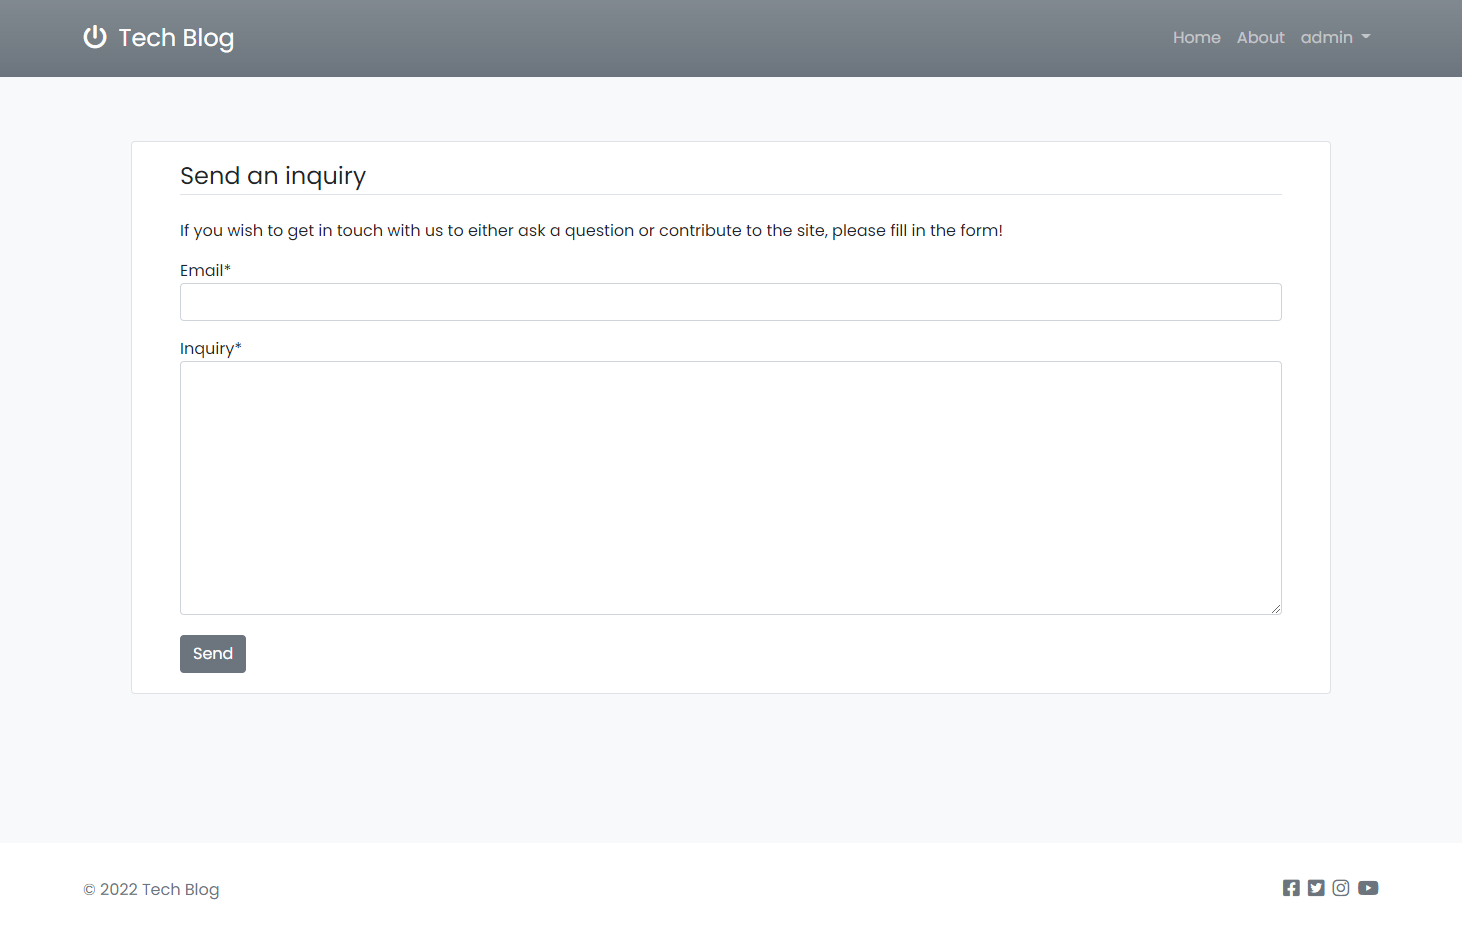
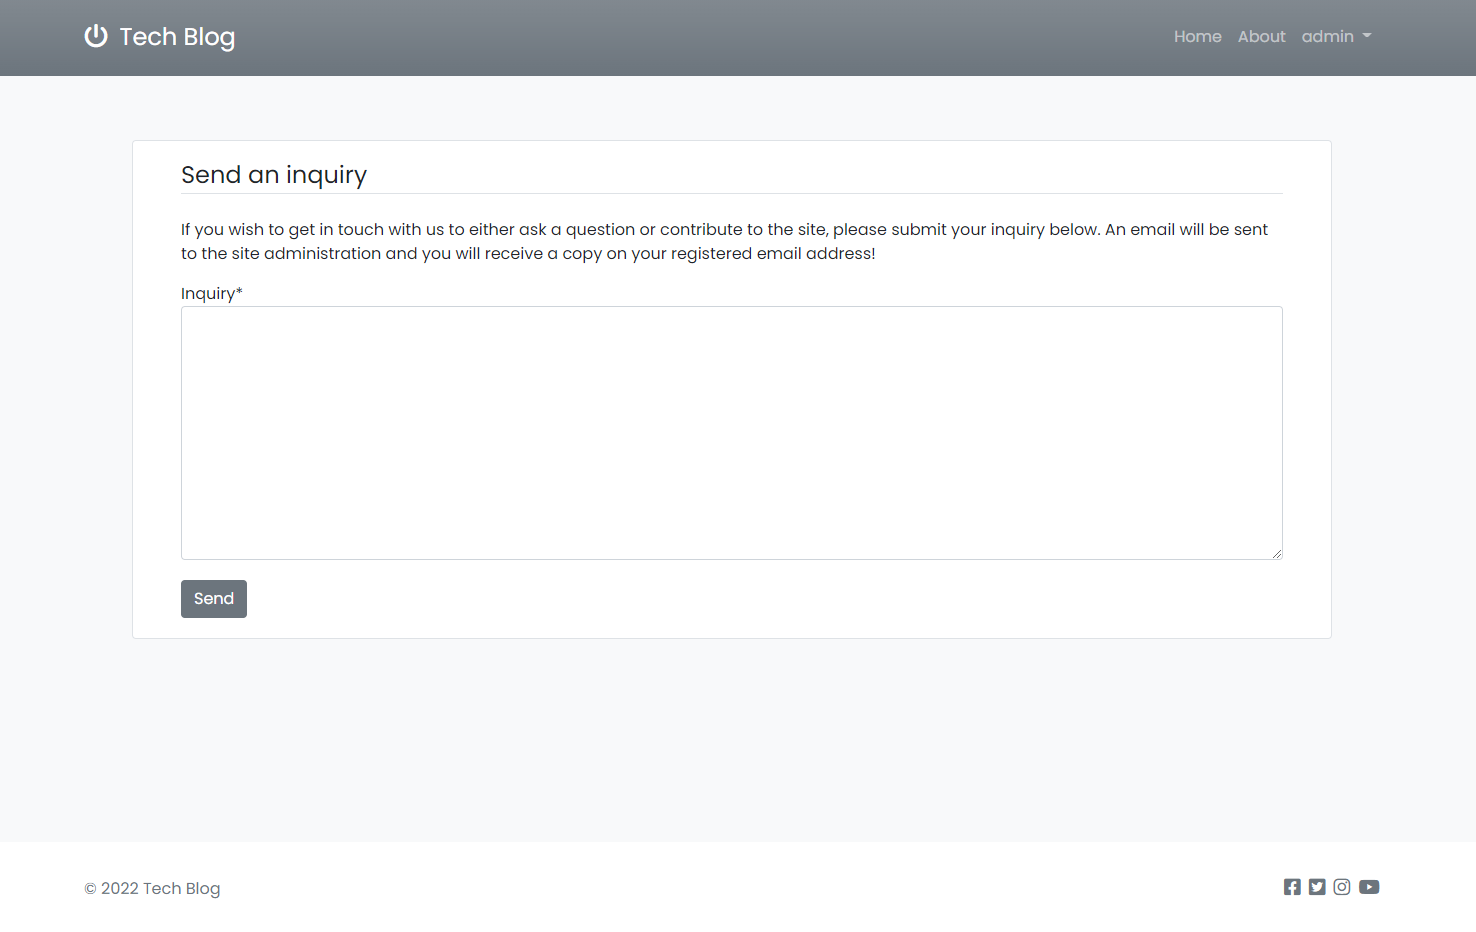
Modify contact page text & README.md inquiry content

diff --git a/users/templates/users/inquiry_form.html b/users/templates/users/inquiry_form.html
@@ -8,7 +8,12 @@
             {% csrf_token %}
             <fieldset>
                 <legend class="border-bottom mb-4">Send an inquiry</legend>
-                <p>If you wish to get in touch with us to either ask a question or contribute to the site, please fill in the form!</p>
+                <p>
+                    If you wish to get in touch with us to either ask a question or 
+                    contribute to the site, please submit your inquiry below. 
+                    An email will be sent to the site administration and you will 
+                    receive a copy on your registered email address!
+                </p>
                 {{ form|crispy }}
             </fieldset>
             <div>

diff --git a/README.md b/README.md
@@ -88,7 +88,7 @@ The user stories were implemented in an agile approach when creating the applica
 
   - As a Site User I can delete my profile so that there is no stored info on me.
 
-  - As a Site User I can reset my password using my registered e-mail so that I can gain access to my account if I forget my password.
+  - As a Site User I can reset my password using my registered email so that I can gain access to my account if I forget my password.
 
 - #### User Navigation
 
@@ -172,11 +172,11 @@ To get an idea of the relationships and fields required in the models, an ERD (E
 
   - The post field has a FK to the Post model, to make sure the comment is assigned to the correct blog post.
 
-- #### Inquiry Model UPDATE?
+- #### Inquiry Model
 
   - ID and time of creation is given automatically.
 
-  - Users can choose an email adress and write an inquiry, while user is automatically set to the signed in users ID.
+  - Users can write an inquiry, while user and email are automatically set to the signed in users ID and registered email address.
 
 ### Wireframes
 
@@ -428,7 +428,7 @@ The following section will provide an overview of the features included in Tech 
 
   - If a user wishes to come in contact with the administraion of the site, they can send an inquiry from the contact page. 
 
-  - The form lets signed in users choose an email for a response, and write an inquiry. An e-mail will then be sent to the admin and the user will receive a copy on the specified e-mail.
+  - The form lets signed in users write an inquiry. An email will then be sent to the admin and the user will receive a copy on their registered email.
 
   <details>
 
@@ -696,7 +696,7 @@ The following section will provide an overview of the features included in Tech 
 
 ### Features Left to Implement
 
-- Password reset through the registered e-mail, if the user forgets their password.
+- Password reset through the registered email, if the user forgets their password.
 
 - See a list of the users own posts, to easier manage their own content.
 
@@ -1373,7 +1373,7 @@ To make sure all interactions and forms / links work as intended, manual testing
 
 - #### User Registration
 
-  - As a Site User I can reset my password using my registered e-mail so that I can gain access to my account if I forget my password.
+  - As a Site User I can reset my password using my registered email so that I can gain access to my account if I forget my password.
 
     - Unfortunately not implemented due to time constraints. After getting feedback on the site this is the most prioritized feature to implement when time permits.
 
@@ -1808,7 +1808,7 @@ The live link to this project can be found [here](https://tech-blog-pp4.herokuap
 
 - [This article](https://simpleisbetterthancomplex.com/tutorial/2017/02/06/how-to-implement-case-insensitive-username.html) helped immensely when dealing with the bug of having duplicate usernames.
 
-- Code Institute Tutor Support helped with solving some issues, including how to properly set up an automated e-mail when a user contacts the site admin and how to properly handle if a user uploads an unsupported image format.
+- Code Institute Tutor Support helped with solving some issues, including how to properly set up an automated email when a user contacts the site admin and how to properly handle if a user uploads an unsupported image format.
 
 - The Code Institute Django Blog walkthrough project had some great features that helped with the development of this project.
 
